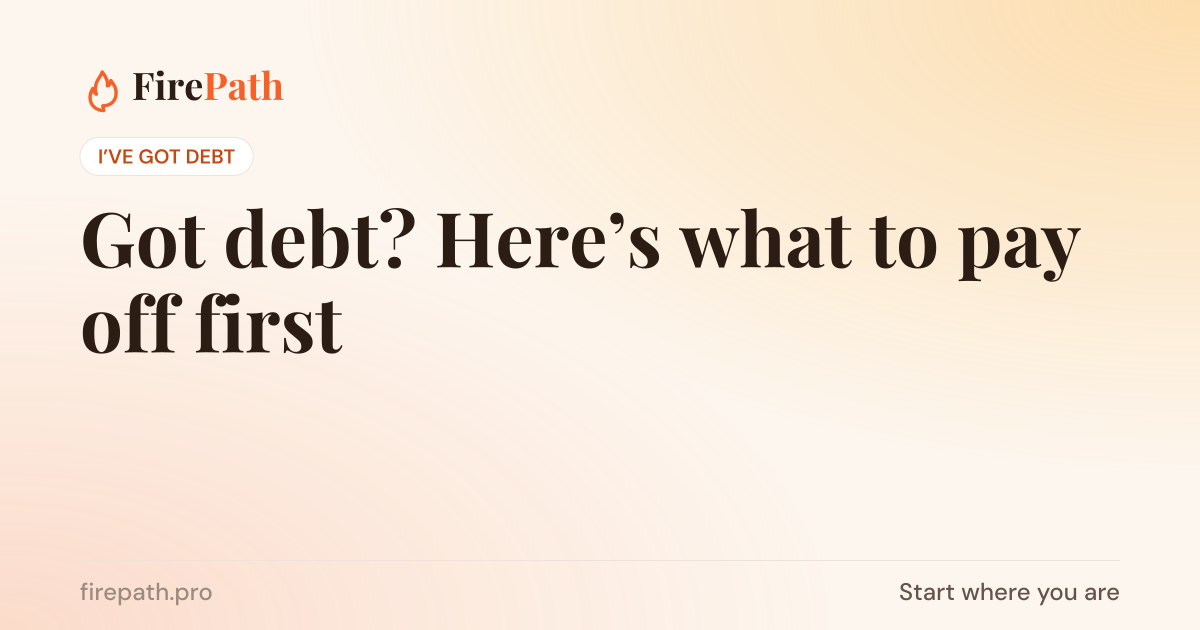
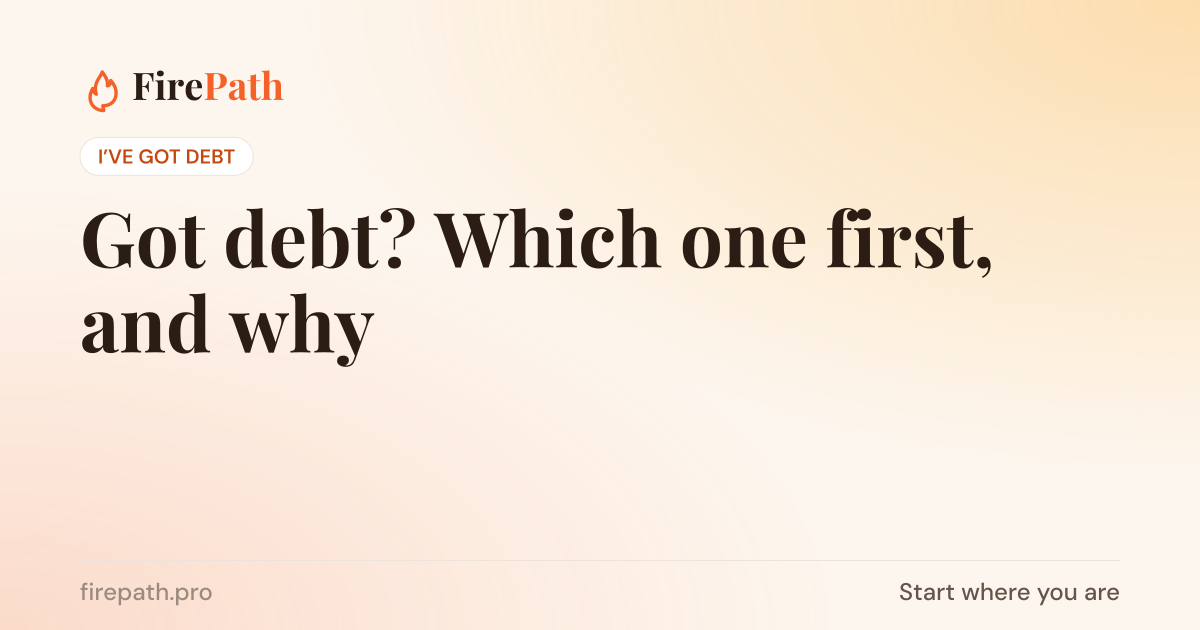
Start pages: suggest, never instruct
Step titles, headings and answers reworded from instructions ('Clear high-interest
debt first', 'What to do, in order') to options and common approaches ('Why
high-interest debt usually comes first', 'A common way to approach it'). General
information only. Share images refreshed for the new debt page title.

Changed region(s): [[0.37, 0.3317, 0.8942, 0.4524], [0.0617, 0.4524, 0.3083, 0.6032]]

diff --git a/src/data/starts.ts b/src/data/starts.ts
@@ -16,13 +16,13 @@ export const STARTS: StartPage[] = [
   { slug: 'just-starting', door: 'Just starting out', title: 'Where to begin with money', icon: 'flame',
     seoTitle: 'How to start saving and investing in Australia — a simple first plan | FirePath',
     description: 'New to saving and investing? A simple, plain-English first plan for Australians: know your numbers, build a small buffer, then let compounding work.',
-    lead: 'You don’t need to know much to start, just the next step. Here’s a simple order to follow, in plain English.',
+    lead: 'You don’t need to know much to start. Here’s a simple order many people use, in plain English.',
     doorLine: 'A simple first plan, one step at a time.',
     steps: [
-      { title: 'Know your numbers', body: 'What comes in, what you spend and what you could set aside. Two minutes in the free calculator gives you a real date to aim for, not a vague “someday”.', href: '/firepath', cta: 'Find my freedom date' },
-      { title: 'Build a small cash buffer', body: 'Aim for about three months of spending in an easy-to-reach savings account, so a surprise bill never derails you.' },
-      { title: 'Start small, and make it automatic', body: 'Set a regular amount to move on payday. Even $50 a week builds the habit and gets compounding working early.', href: '/hearmeout', cta: 'See what $50 a week grows into' },
-      { title: 'Get your head around compounding', body: 'It’s your money earning money, which then earns money too. Once it clicks, a lot of the rest makes sense.', href: '/learn/how-compound-interest-works', cta: 'How compounding works' },
+      { title: 'Knowing your numbers', body: 'What comes in, what goes out and what could be set aside. Two minutes in the free calculator gives a real date, not a vague “someday”.', href: '/firepath', cta: 'Find my freedom date' },
+      { title: 'A small cash buffer', body: 'Many people keep about three months of spending in an easy-to-reach savings account, so a surprise bill doesn’t derail things.' },
+      { title: 'Starting small, and automatic', body: 'A regular amount moved on payday, even $50 a week, builds the habit and gets compounding working early.', href: '/hearmeout', cta: 'See what $50 a week grows into' },
+      { title: 'How compounding works', body: 'It’s money earning money, which then earns money too. Once it clicks, a lot of the rest makes sense.', href: '/learn/how-compound-interest-works', cta: 'How compounding works' },
     ],
     tools: [
       { href: '/firepath', name: 'Freedom calculator', line: 'Your freedom date and what moves it.' },
@@ -31,22 +31,22 @@ export const STARTS: StartPage[] = [
     ],
     articles: ['good-savings-rate', 'difference-saving-investing', 'how-much-to-start-investing', 'start-investing-no-experience', 'what-is-an-index-fund', 'why-do-i-feel-behind'],
     faq: [
-      { q: 'How much should I save to start?', a: 'Whatever you can keep doing. A common first goal is 10% of take-home pay, but a smaller amount you never miss beats a bigger one you stop. Raise it each time your pay goes up.' },
-      { q: 'Should I save or invest first?', a: 'Save a small buffer first (about three months of spending), then invest money you won’t need for five years or more. Savings protect you; investing grows your money over time.' },
+      { q: 'How much should I save to start?', a: 'Whatever you can keep doing. A common first goal is 10% of take-home pay, but a smaller amount kept up often beats a bigger one that stops. Many people lift it each time their pay goes up.' },
+      { q: 'Should I save or invest first?', a: 'A common approach is a small buffer first (about three months of spending), then investing money that won’t be needed for five years or more. Savings protect against surprises; investing tends to grow money over time.' },
       { q: 'How much do I need to start investing?', a: 'Not much. Many Australian investing platforms let you start with a few hundred dollars or less. What matters more is investing regularly.' },
     ] },
 
-  { slug: 'debt', door: 'I’ve got debt', title: 'Got debt? Here’s what to pay off first', icon: 'card',
+  { slug: 'debt', door: 'I’ve got debt', title: 'Got debt? Which one first, and why', icon: 'card',
     seoTitle: 'Should I pay off debt or invest? An Australian guide | FirePath',
-    description: 'Credit cards, personal loans, buy now pay later, HECS and a mortgage are very different debts. Here’s a sensible order for Australians, and when to start investing.',
-    lead: 'Not all debt is equal. Card debt usually costs more than investing earns, so the order you pay things off really matters.',
+    description: 'Credit cards, personal loans, buy now pay later, HECS and a mortgage are very different debts. Here’s how Australians often order them, and where investing fits in.',
+    lead: 'Not all debt is equal. Card debt usually costs more than investing earns, so the order debts are paid off can make a big difference.',
     doorLine: 'Which debt first, and when to start investing.',
     steps: [
-      { title: 'List every debt and its interest rate', body: 'Credit cards, personal and car loans, buy now pay later, HECS/HELP and your mortgage. The interest rate decides the order.' },
-      { title: 'Clear high-interest debt first', body: 'Cards and personal loans often charge 15–20% a year or more. Paying them off saves you that much interest, guaranteed. No investment reliably earns that.', href: '/hearmeout?scenario=loan', cta: 'See it paid off' },
-      { title: 'Keep a small buffer while you do', body: 'A month or two of spending in cash stops a surprise bill going straight back on the card.' },
+      { title: 'Seeing every debt and its rate', body: 'Credit cards, personal and car loans, buy now pay later, HECS/HELP and a mortgage. The interest rate is what usually decides the order.' },
+      { title: 'Why high-interest debt usually comes first', body: 'Cards and personal loans often charge 15–20% a year or more. Each dollar paid off saves that much interest, guaranteed. No investment reliably earns that.', href: '/hearmeout?scenario=loan', cta: 'See it paid off' },
+      { title: 'A small buffer alongside', body: 'A month or two of spending in cash can stop a surprise bill going straight back on the card.' },
       { title: 'Low-rate debt can sit alongside investing', body: 'HECS/HELP is indexed to inflation rather than charged interest, and mortgage rates are usually far below card rates. Many people invest while paying these down normally.' },
-      { title: 'Then put the repayments to work', body: 'Once the expensive debt is gone, keep paying the same amount — into your savings and investments instead.', href: '/firepath', cta: 'Find my freedom date' },
+      { title: 'What the repayments can do next', body: 'Once the expensive debt is gone, the same repayment amount can go into savings and investments instead.', href: '/firepath', cta: 'Find my freedom date' },
     ],
     tools: [
       { href: '/hearmeout?scenario=loan', name: 'Loan payoff', line: 'How fast it goes, and what it costs.' },
@@ -54,8 +54,8 @@ export const STARTS: StartPage[] = [
     ],
     articles: ['debt-vs-invest', 'bad-with-money-or-underpaid', 'money-anxiety', 'why-do-i-feel-behind', 'everyone-else-figured-out'],
     faq: [
-      { q: 'Should I pay off my credit card or invest?', a: 'Usually the card. Credit card interest is often 15–20% a year or more, which is a guaranteed cost. Shares have historically returned less than that on average, with ups and downs.' },
-      { q: 'Should I pay off HECS early?', a: 'Often not a priority. HECS/HELP isn’t charged interest. It’s indexed to inflation, and repayments come out of your pay automatically above the threshold. High-interest debt matters far more.' },
+      { q: 'Should I pay off my credit card or invest?', a: 'On the maths, the card often comes out ahead. Credit card interest is often 15–20% a year or more, which is a guaranteed cost. Shares have historically returned less than that on average, with ups and downs.' },
+      { q: 'Should I pay off HECS early?', a: 'For many people it isn’t the first priority. HECS/HELP isn’t charged interest. It’s indexed to inflation, and repayments come out of your pay automatically above the threshold. High-interest debt usually costs far more.' },
       { q: 'Pay off the mortgage or invest?', a: 'It depends on your mortgage rate and tax rate. An offset account saves your mortgage rate, tax-free and guaranteed; investing may earn more over time with more ups and downs.' },
     ] },
 
@@ -66,9 +66,9 @@ export const STARTS: StartPage[] = [
     doorLine: 'Rent and invest, or buy? Try both on your numbers.',
     steps: [
       { title: 'Compare both paths on your numbers', body: 'Buying builds equity but costs stamp duty, interest and upkeep. Renting can leave more to invest, but only if you invest the difference.', href: '/hearmeout?scenario=rentvest', cta: 'Compare rent vs buy' },
-      { title: 'If you rent: invest the difference', body: 'The case for renting only works when the money you’re not spending on a mortgage gets invested, consistently.' },
-      { title: 'If you buy: think about the deposit', body: 'The First Home Super Saver Scheme lets eligible first-home buyers save part of a deposit inside super’s lower tax.', href: '/learn/first-home-super-saver', cta: 'How the scheme works' },
-      { title: 'Plan your housing in retirement', body: 'Renters need their savings to cover rent for life, so the freedom number is higher. The Age Pension assets test also treats renters differently.', href: '/learn/renting-forever-retirement', cta: 'Renting in retirement' },
+      { title: 'If you rent: investing the difference', body: 'The case for renting only works when the money you’re not spending on a mortgage gets invested, consistently.' },
+      { title: 'If you buy: the deposit', body: 'The First Home Super Saver Scheme lets eligible first-home buyers save part of a deposit inside super’s lower tax.', href: '/learn/first-home-super-saver', cta: 'How the scheme works' },
+      { title: 'Housing in retirement', body: 'Renters need their savings to cover rent for life, so the freedom number is higher. The Age Pension assets test also treats renters differently.', href: '/learn/renting-forever-retirement', cta: 'Renting in retirement' },
     ],
     tools: [
       { href: '/hearmeout?scenario=rentvest', name: 'Rent vs invest', line: 'Both paths, side by side.' },
@@ -77,7 +77,7 @@ export const STARTS: StartPage[] = [
     articles: ['rent-or-buy', 'renting-cheaper-than-owning', 'renting-forever-retirement', 'house-delays-fi', 'first-home-super-saver'],
     faq: [
       { q: 'Is renting a waste of money?', a: 'Not necessarily. Owning has its own costs — interest, rates, upkeep and stamp duty. Renting and investing the difference can come out ahead, but only if the difference is invested.' },
-      { q: 'Can I retire early if I rent?', a: 'Yes, but your savings need to cover rent for life, so your freedom number is higher than an owner’s. Plan for it from the start.' },
+      { q: 'Can I retire early if I rent?', a: 'Yes, but your savings need to cover rent for life, so the freedom number is higher than an owner’s. Building that in from the start keeps the plan realistic.' },
       { q: 'Does buying a house delay financial independence?', a: 'It can: a big deposit and mortgage repayments slow investing for years. It can also lower your costs later. Your numbers decide which matters more.' },
     ] },
 
@@ -88,9 +88,9 @@ export const STARTS: StartPage[] = [
     doorLine: 'The few things that move your date most.',
     steps: [
       { title: 'Your savings rate matters most', body: 'Saving more works twice: more invested now, and a smaller number to reach if you also spend less.', href: '/firepath', cta: 'See what moves your date' },
-      { title: 'Make sure your money is working', body: 'Cash above your buffer barely keeps up with inflation. Low-cost diversified funds have historically grown far faster over the long run.', href: '/learn/what-is-an-index-fund', cta: 'Index funds explained' },
-      { title: 'Use super’s tax break, if it suits', body: 'On a 30%+ tax rate, salary sacrificing into super is taxed at 15% instead. It’s locked until 60, so balance it with money you can reach sooner.', href: '/learn/salary-sacrifice-explained', cta: 'Salary sacrifice explained' },
-      { title: 'Know when you can ease off', body: 'Coast FIRE is the point where your savings would reach your number by retirement without adding more, so part-time work could cover your bills from here.', href: '/freedom-gap', cta: 'See your freedom gap' },
+      { title: 'Is your money working?', body: 'Cash above your buffer barely keeps up with inflation. Low-cost diversified funds have historically grown far faster over the long run.', href: '/learn/what-is-an-index-fund', cta: 'Index funds explained' },
+      { title: 'Super’s tax break, if it suits', body: 'On a 30%+ tax rate, salary sacrificing into super is taxed at 15% instead. It’s locked until 60, so balance it with money you can reach sooner.', href: '/learn/salary-sacrifice-explained', cta: 'Salary sacrifice explained' },
+      { title: 'When easing off could be an option', body: 'Coast FIRE is the point where your savings would reach your number by retirement without adding more, so part-time work could cover your bills from here.', href: '/freedom-gap', cta: 'See your freedom gap' },
     ],
     tools: [
       { href: '/firepath', name: 'Freedom calculator', line: 'Every change, shown in years.' },
@@ -100,20 +100,20 @@ export const STARTS: StartPage[] = [
     articles: ['what-is-an-index-fund', 'etfs-how-to-buy', 'salary-sacrifice-explained', 'super-vs-outside-investing', 'what-is-coast-fire', 'four-percent-rule-australia'],
     faq: [
       { q: 'What savings rate do I need to retire early?', a: 'There’s no single number, but the higher it is, the sooner you get there. Many people aiming for early retirement save 30–50% of take-home pay. FirePath shows what your own rate means in years.' },
-      { q: 'Should I invest inside or outside super?', a: 'Both have a place. Super is taxed less but locked until 60; investing outside super can be reached any time. If you hope to stop work before 60, you’ll need money outside super to bridge the gap.' },
+      { q: 'Should I invest inside or outside super?', a: 'Both have a place. Super is taxed less but locked until 60; investing outside super can be reached any time. Stopping work before 60 means money outside super has to bridge the gap.' },
       { q: 'What is Coast FIRE?', a: 'The point where your existing savings would grow to your freedom number by retirement age without adding more, so you only need to cover today’s costs.' },
     ] },
 
   { slug: 'retirement', door: 'Nearly or already retired', title: 'Making your money last', icon: 'shield',
     seoTitle: 'Will my money last in retirement? An Australian guide | FirePath',
     description: 'Nearly retired or already there? How to check your money lasts in Australia: withdrawal rates, the years before you can get to your super at 60, the Age Pension at 67 and a bad market early on.',
-    lead: 'Close to the finish line, the big question becomes “will it last?” Here’s how to check, honestly.',
+    lead: 'Close to the finish line, the big question becomes “will it last?” Here’s how people check, honestly.',
     doorLine: 'Withdrawal rates, super at 60, the Age Pension.',
     steps: [
-      { title: 'Test how much you draw', body: 'Markets don’t return the average every year. Test your withdrawal rate across thousands of possible market outcomes, especially a bad run early on.', href: '/withdrawal', cta: 'Try the Withdrawal planner' },
-      { title: 'Bridge the years before 60', body: 'Super is locked until preservation age (60). If you stop earlier, money outside super has to carry you until then.', href: '/learn/before-super-access', cta: 'Before you can access super' },
-      { title: 'Count the Age Pension from 67', body: 'Depending on your assets and income, the Age Pension may top up what your savings pay. It’s means-tested, so it changes as your balance does.', href: '/freedom-gap', cta: 'See what it adds' },
-      { title: 'Consider a cash buffer for bad years', body: 'Many retirees keep a year or two of spending in cash so they don’t have to sell investments during a downturn.', href: '/learn/volatility-emotional-side', cta: 'The emotional side of volatility' },
+      { title: 'Testing how much you draw', body: 'Markets don’t return the average every year. The Withdrawal planner tests a withdrawal rate across thousands of possible market outcomes, including a bad run early on.', href: '/withdrawal', cta: 'Try the Withdrawal planner' },
+      { title: 'Bridging the years before 60', body: 'Super is locked until preservation age (60). If you stop earlier, money outside super has to carry you until then.', href: '/learn/before-super-access', cta: 'Before you can access super' },
+      { title: 'What the Age Pension could add from 67', body: 'Depending on your assets and income, the Age Pension may top up what your savings pay. It’s means-tested, so it changes as your balance does.', href: '/freedom-gap', cta: 'See what it adds' },
+      { title: 'A cash buffer for bad years', body: 'Many retirees keep a year or two of spending in cash so they don’t have to sell investments during a downturn.', href: '/learn/volatility-emotional-side', cta: 'The emotional side of volatility' },
     ],
     tools: [
       { href: '/withdrawal', name: 'Withdrawal planner', line: 'The odds your money lasts.' },
